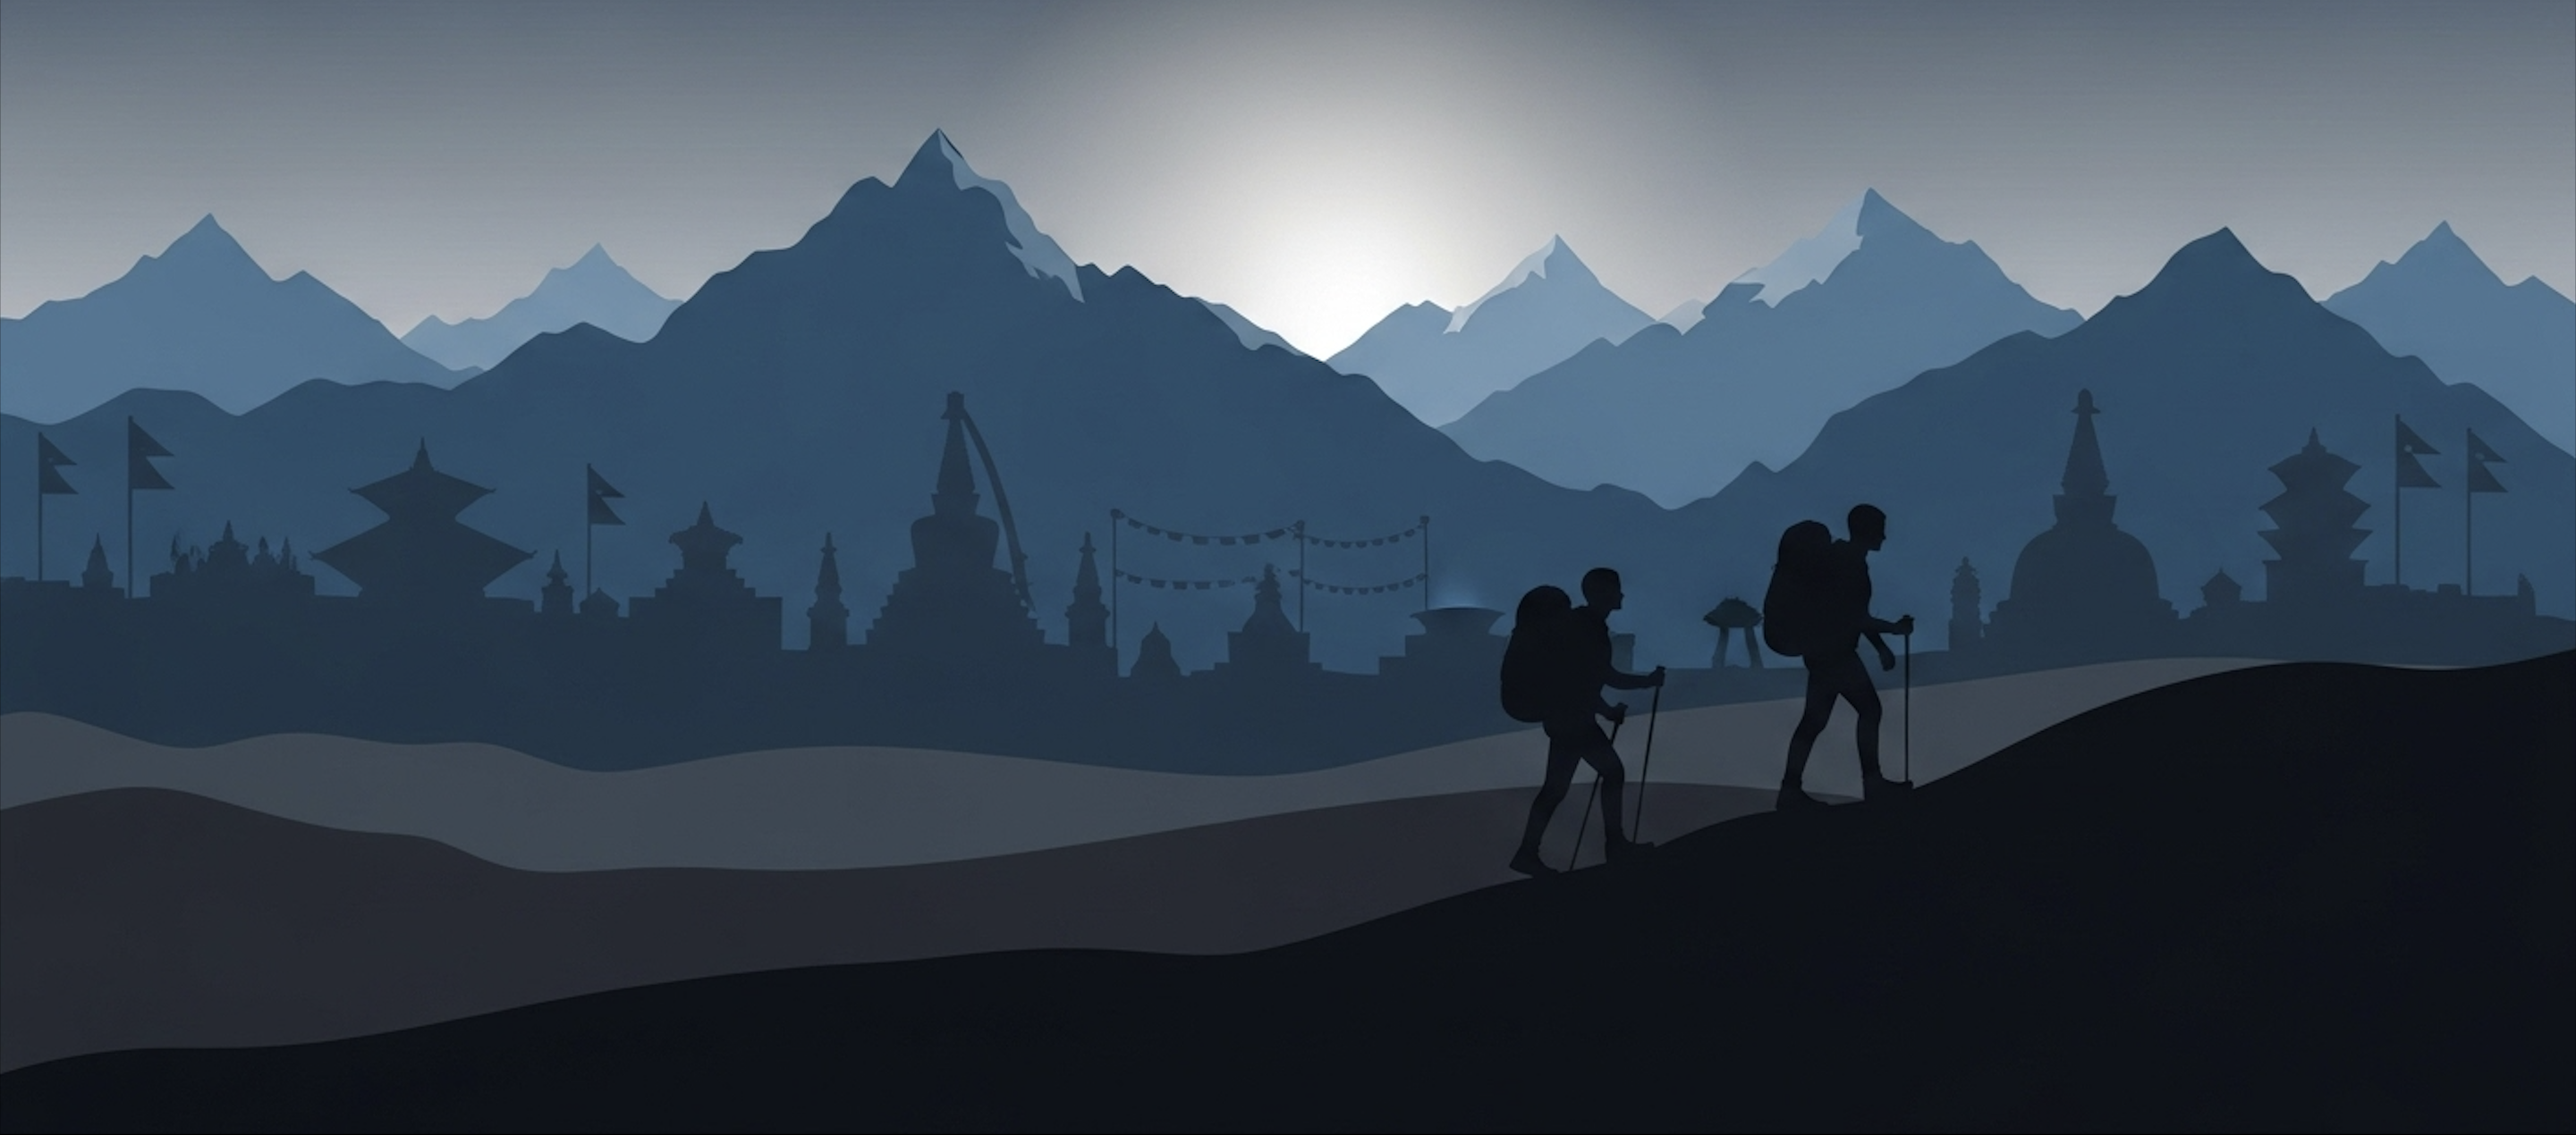
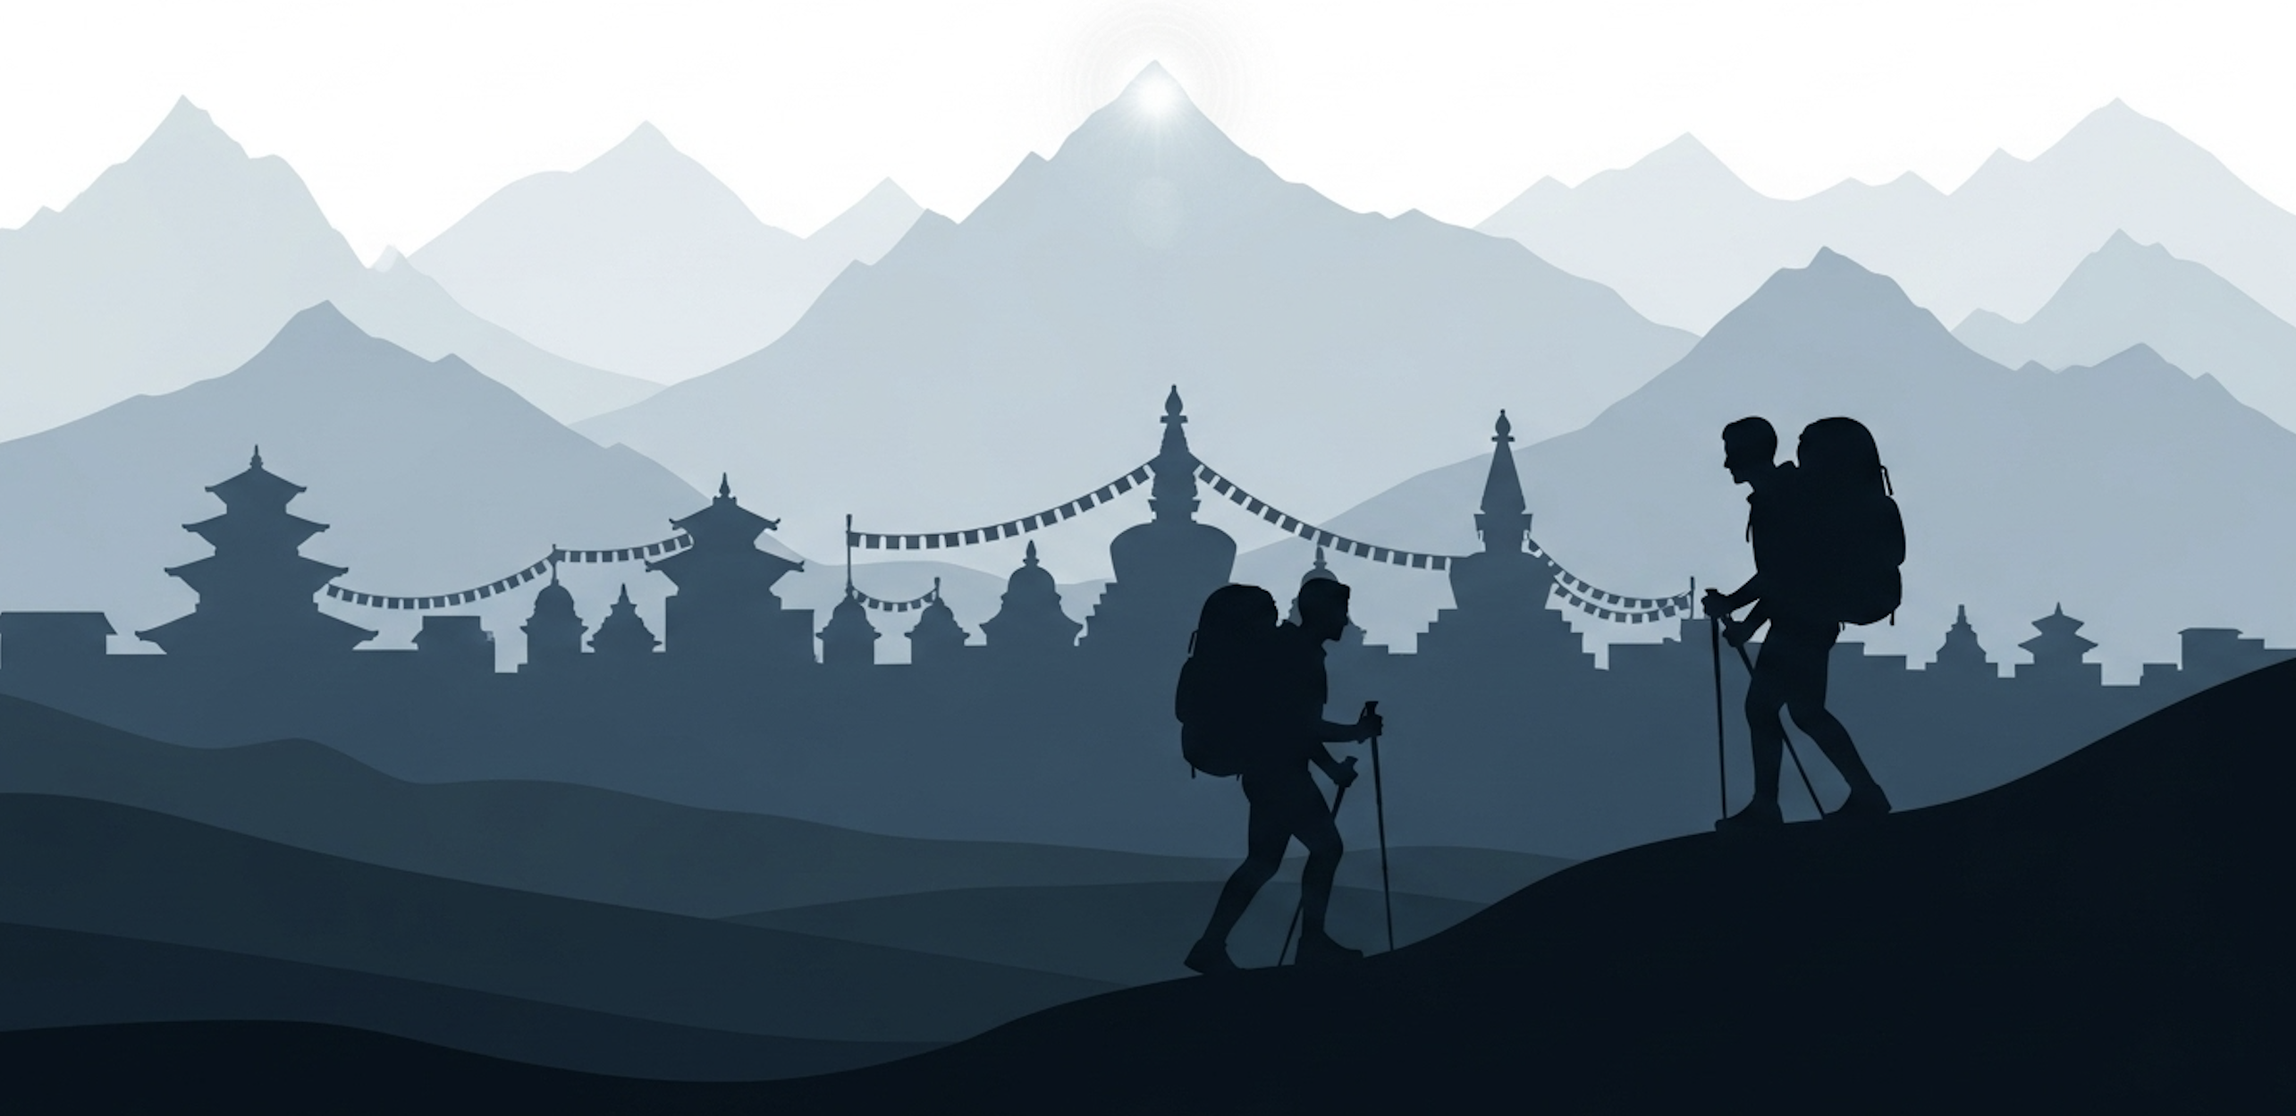
updated

diff --git a/frontend/src/pages/Home/Home.jsx b/frontend/src/pages/Home/Home.jsx
@@ -88,10 +88,11 @@ export default function Home() {
 
   const formatDate = (dateStr) => {
     const date = new Date(dateStr);
-    return date.toLocaleDateString(
-      i18n.language === "np" ? "ne-NP" : "en-US",
-      { year: "numeric", month: "short", day: "numeric" }
-    );
+    return date.toLocaleDateString(i18n.language === "np" ? "ne-NP" : "en-US", {
+      year: "numeric",
+      month: "short",
+      day: "numeric",
+    });
   };
 
   return (
@@ -113,7 +114,9 @@ export default function Home() {
 
       {/* Latest Blogs */}
       <section className="latest-blogs">
-        <h2>{i18n.language === "np" ? "ब्लग र कथा" : "Latest Blogs & Stories"}</h2>
+        <h2>
+          {i18n.language === "np" ? "ब्लग र कथा" : "Latest Blogs & Stories"}
+        </h2>
         <div className="blog-list">
           {blogs.map((blog) => (
             <BlogCard
@@ -130,7 +133,9 @@ export default function Home() {
       {/* Upcoming Festivals */}
       <div className="fullwidth-bg-wrapper">
         <section className="upcoming-festivals-section">
-          <h2>{i18n.language === "np" ? "आगामी चाडपर्वहरू" : "Upcoming Festivals"}</h2>
+          <h2>
+            {i18n.language === "np" ? "आगामी चाडपर्वहरू" : "Upcoming Festivals"}
+          </h2>
           <div className="festival-card-list">
             {futureFestivals.slice(0, 3).map((festival) => (
               <FestivalCard
@@ -163,18 +168,30 @@ export default function Home() {
         <div className="explore-hero-overlay" />
         <div className="explore-left">
           <h2 className="explore-title">
-            {i18n.language === "np" ? "अन्वेषण गर्न ठाउँहरू" : "Places to Explore"}
+            {i18n.language === "np"
+              ? "अन्वेषण गर्न ठाउँहरू"
+              : "Places to Explore"}
           </h2>
 
           <aside className="explore-sidebar">
             <div className="category-row">
               {[
-                { key: "unesco", label_en: "World Heritage (UNESCO)", label_np: "विश्व सम्पदा" },
-                { key: "province", label_en: "Provinces", label_np: "प्रदेशहरू" },
+                {
+                  key: "unesco",
+                  label_en: "World Heritage (UNESCO)",
+                  label_np: "विश्व सम्पदा",
+                },
+                {
+                  key: "province",
+                  label_en: "Provinces",
+                  label_np: "प्रदेशहरू",
+                },
               ].map((c) => (
                 <button
                   key={c.key}
-                  className={`category-btn ${category === c.key ? "active" : ""}`}
+                  className={`category-btn ${
+                    category === c.key ? "active" : ""
+                  }`}
                   onClick={() => setCategory(c.key)}
                 >
                   {i18n.language === "np" ? c.label_np : c.label_en}
@@ -183,7 +200,9 @@ export default function Home() {
             </div>
             <div className="category-row centered">
               <button
-                className={`category-btn ${category === "pilgrims" ? "active" : ""}`}
+                className={`category-btn ${
+                  category === "pilgrims" ? "active" : ""
+                }`}
                 onClick={() => setCategory("pilgrims")}
               >
                 {i18n.language === "np" ? "तीर्थ स्थल" : "Pilgrimage Sites"}
@@ -191,17 +210,17 @@ export default function Home() {
             </div>
           </aside>
 
-         <div className="explore-places-grid">
-  {filteredPlaces.map((place) => (
-    <PlaceCard
-      key={place._id}
-      place={place}
-      getFullImageUrl={getFullImageUrl}
-      i18n={i18n}
-      onClick={() => navigate(`/places/${place._id}`)}
-    />
-  ))}
-</div>
+          <div className="explore-places-grid">
+            {filteredPlaces.map((place) => (
+              <PlaceCard
+                key={place._id}
+                place={place}
+                getFullImageUrl={getFullImageUrl}
+                i18n={i18n}
+                onClick={() => navigate(`/places/${place._id}`)}
+              />
+            ))}
+          </div>
         </div>
 
         <div className="explore-right">

diff --git a/frontend/src/pages/Home/Home.css b/frontend/src/pages/Home/Home.css
@@ -1,4 +1,9 @@
 /* ==================== CSS Reset & Variables ==================== */
+/* Home.css */
+
+@import url('https://fonts.googleapis.com/css2?family=Cedarville+Cursive&family=Edu+NSW+ACT+Cursive:wght@400..700&family=Lato:ital,wght@0,100;0,300;0,400;0,700;0,900;1,100;1,300;1,400;1,700;1,900&family=Outfit:wght@100..900&family=Prata&family=Raleway:ital,wght@0,100..900;1,100..900&display=swap');
+
+
 * {
   margin: 0;
   padding: 0;
@@ -204,11 +209,11 @@ body {
 
 /* Title */
 .explore-title {
-  font-family:  'Poppins', sans-serif;
+  font-family: "Edu NSW ACT Cursive", cursive;
   font-size: 2rem;
   margin-bottom: 1.5rem;
   font-weight: 700;
-  color: #333;
+  color: #ebe4e4;
   text-align: left;
   margin-left: 0;
 }
@@ -362,9 +367,9 @@ body {
 
 /* Section heading */
 .upcoming-festivals-section h2 {
-  font-family: 'Poppins', sans-serif;
+  font-family: "Edu NSW ACT Cursive", cursive;
   font-weight: 600;
-  font-size: 2rem;
+  font-size: 2.2rem;
   color: #1e2a38;
   margin-bottom: 2rem;
   text-align: center;
@@ -505,15 +510,16 @@ body {
 /* Container for latest blogs */
 .latest-blogs {
   padding: 2rem 1rem;
-  background-color: #fafafa;
+  background-color: transparent;
 }
 
 .latest-blogs h2 {
-  font-size: 2rem;
-  font-weight: 700;
+  font-size: 2.2rem;
+  font-weight: 600;
   color: var(--text-primary, #222);
   text-align: center;
   margin-bottom: 2rem;
+  font-family: "Edu NSW ACT Cursive", cursive;
 }
 
 /* Blog cards grid */

diff --git a/frontend/src/Component/Footer/Footer.jsx b/frontend/src/Component/Footer/Footer.jsx
@@ -7,7 +7,7 @@ const Footer = () => {
     <footer className="footer">
       {/* Decorative footer image */}
       <div className="footer-image-wrapper">
-        <img src="/images/footer4.png" alt="Footer Graphic" className="footer-image" />
+        <img src="/images/footer.png" alt="Footer Graphic" className="footer-image" />
       </div>
 
       {/* Footer content */}
